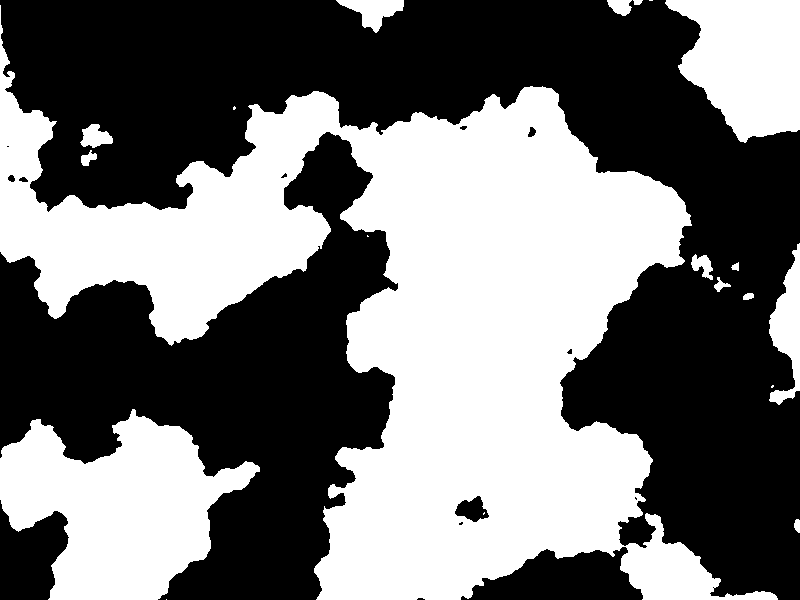
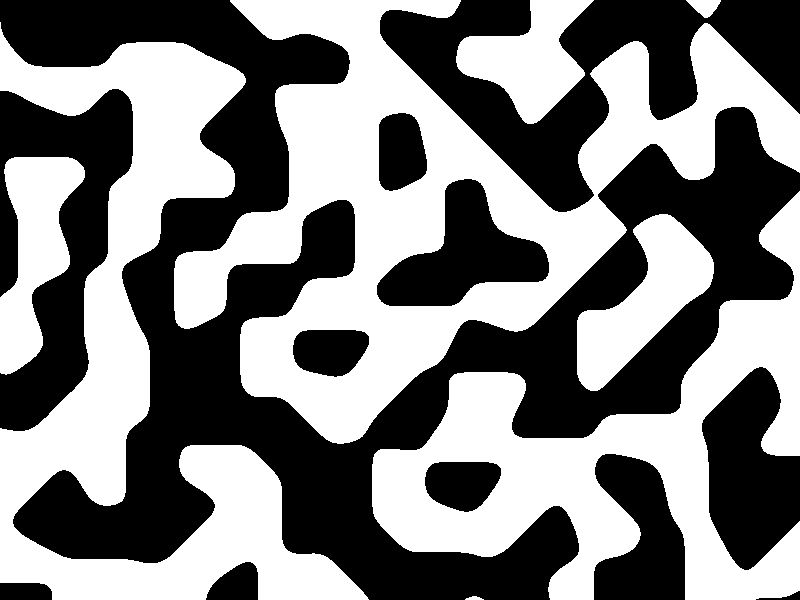
textured map

diff --git a/cave_survival/map.py b/cave_survival/map.py
@@ -1,6 +1,7 @@
-from noise import snoise2
 import pydantic
 import pygame
+from noise import snoise2
+from PIL import Image, ImageFilter
 from rich.console import Console
 
 console = Console()
@@ -20,22 +21,26 @@ class Point(pydantic.BaseModel):
 
 class Map:
     def __init__(self):
-        self.resolution = 32
-        self.scale = 0.1  # Determines the "smoothness" of the terrain
+        self.grass = pygame.image.load("grass.webp").convert_alpha()
+        self.rock = pygame.image.load("rock.jpg").convert_alpha()
+        self.dirt = pygame.image.load("dirt.jpg").convert_alpha()
+        self.resolution = 16
+        self.scale = 0.14  # Determines the "smoothness" of the terrain
         self.offset = Point(x=0, y=0)
         self.last_offset = self.offset
         # self.width = int(screen_width / self.resolution)
         # self.height = int(screen_height / self.resolution)
         self.screen_width = 800
         self.screen_height = 600
-        self.octaves = 6  # Number of layers of noise to combine
-        self.persistence = 0.5  # Amplitude of each octave
-        self.lacunarity = 2.0  # Frequency of each octave
+        self.octaves = 2  # Number of layers of noise to combine
+        self.persistence = 0.05  # Amplitude of each octave
+        self.lacunarity = 1.0  # Frequency of each octave
         self.thresh = 128
-        self.surf = pygame.Surface(
-            (self.screen_width / self.resolution, self.screen_height / self.resolution)
-        )
         self.pre_draw()
+
+    def refresh_surf(self):
+        self.surf = pygame.Surface((self.screen_width, self.screen_height))
+        # self.surf.blit(self.grass, (0, 0))
 
         # self.noise_map = self.generate_noise_map()
 
@@ -66,14 +71,16 @@ class Map:
             (0, 0),
         )
 
-    def point_check_collision(self, x, y):
-        return self.get_noise(x / self.resolution, y / self.resolution) < self.thresh
+    def point_check_collision(self, x, y, thresh=None):
+        return self.get_noise(x / self.resolution, y / self.resolution) < (
+            thresh or self.thresh
+        )
 
     def pre_draw(self):
         console.log("drawing")
-        self.surf = pygame.Surface((self.screen_width, self.screen_height))
-        for x in range(self.screen_width):
-            for y in range(self.screen_height):
+        self.refresh_surf()
+        for x in range(int(self.screen_width)):
+            for y in range(int(self.screen_height)):
                 if not self.point_check_collision(x, y):
                     pygame.draw.rect(
                         self.surf,
@@ -88,3 +95,22 @@ class Map:
                         ),
                     )
         pygame.image.save(self.surf, "map.png")
+        av1 = (
+            Image.open("rock.jpg")
+            .convert("RGB")
+            .resize((self.screen_width, self.screen_height))
+        )
+        av2 = (
+            Image.open("dirt.jpg")
+            .convert("RGB")
+            .resize((self.screen_width, self.screen_height))
+        )
+        mask = (
+            Image.open("map.png")
+            .convert("L")
+            .resize((self.screen_width, self.screen_height))
+            .filter(ImageFilter.GaussianBlur(3))
+        )
+        Image.composite(av2, av1, mask).save("result.png")
+        result = pygame.image.load("result.png")
+        self.surf.blit(result, (0, 0))
